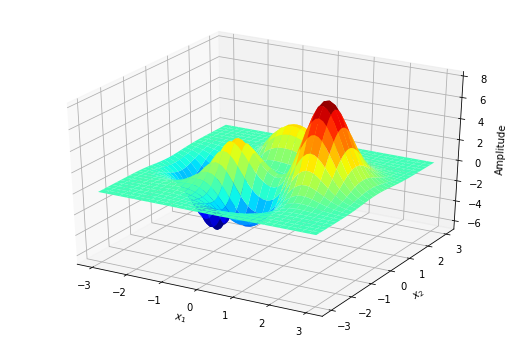
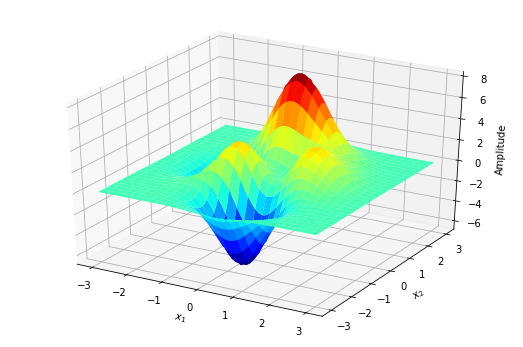
PSO notebook (markdown version)

Changed region(s): [[0.2753, 0.2017, 0.7648, 0.7781]]

diff --git a/examples/particle_swarm/ParticleSwarmOptimization.md b/examples/particle_swarm/ParticleSwarmOptimization.md
@@ -19,6 +19,8 @@ from mpl_toolkits.mplot3d import Axes3D
 from nessi.pso import Swarm
 ```
 
+### 1-The peak function
+
 The Peaks function in Equation 6 is a function of two
 variables,  obtained  by  translating  and  scaling  Gaussian
 distributions.  It  has  multiple  peaks  which  are  located
@@ -29,50 +31,109 @@ function values (Aljarah & Ludwig, 2013). The function has the following definit
 
 
 ```python
-def peaksF(x1min, x1max, dx1, x2min, x2max, dx2):
-    """
-    Return an array containing the 2D Rastrigin function.
-    """
+def peaksF(X, Y):
+    F = 3.*(1.-X)*(1.-X)\
+                *np.exp(-1.*X**2-(Y+1.)**2)\
+                -10.*(X/5.-X**3-Y**5)\
+                *np.exp(-1.*X**2-Y**2)\
+                -1./3.*np.exp(-1.*(X+1)**2-Y**2)
 
-    # >> Determine the number of samples
-    n1 = int((x1max-x1min)/dx1)+1
-    n2 = int((x2max-x2min)/dx2)+1
-
-    # >> Declare array
-    f = np.zeros((n1, n2), dtype=np.float32)
-
-    # >> Fill the array
-    for i2 in range(0, n2):
-        x2 = x2min+float(i2)*dx2
-        for i1 in range(0, n1):
-            x1 = x1min+float(i1)*dx1
-            f[i1, i2] = 3.*(1.-x1)*(1.-x1)\
-                        *np.exp(-1.*x1*x1-(x2+1.)*(x2+1.))\
-                        -10.*(x1/5.-x1*x1*x1-x2*x2*x2*x2*x2)\
-                        *np.exp(-1.*x1*x1-x2*x2)\
-                        -1./3.*np.exp(-1.*(x1+1)*(x1+1)-x2*x2)
-
-    return f
+    return F
 ```
 
 
 ```python
-# The peak function
-F = peaksF(-3.0, 3.0, 0.1, -3.0, 3.0, 0.1)
-
 # Initialize 3D plot
-
 fig = plt.figure(figsize=(9,6))
 ax = fig.gca(projection='3d')
 ax.set_xlabel(r'$x_{1}$')
 ax.set_ylabel(r'$x_{2}$')
 ax.set_zlabel(r'Amplitude')
+
+# Calculate peak function
 X, Y = np.meshgrid(np.linspace(-3, 3, 61), np.linspace(-3, 3, 61))
-surf = ax.plot_surface(X, Y, F, vmin=-6.0, vmax=8.0, cmap='jet')
+F = peaksF(X, Y)
+
+# Plot
+ax.plot_surface(X, Y, F, vmin=-6.0, vmax=8.0, cmap='jet');
 ```
 
 
 ![png](output_8_0.png)
+
+
+### 2-Define the search-space
+
+The search-space is delimited by the minimum and maximum values of each parameter (x1 and x2 in this case). An increment value (dx) is added to control the maximum displacement of the swarm's particles.
+
+| x1 min | x1 max | dx1 | x2 min | x2 max | dx2 |
+| ------ | ------ | --- | ------ | ------ | --- |
+| -3.0   | 3.0    | 0.3 | -3.0   | 3.0    | 0.3 |
+
+### 3-Process
+
+
+```python
+# Initialize the swarm object
+swarm = Swarm()
+
+# PSO parameters
+fmod = 'pspace_peaks.ascii'
+ngen = 100
+nindv = 20
+fit = np.zeros((ngen+1, 2), dtype=np.float32)
+
+# Get the search-space
+swarm.init_pspace(fmod)
+
+# Initialize particles
+swarm.init_particles(nindv)
+```
+
+
+```python
+# First evaluation
+swarm.misfit[:] = peaksF(swarm.current[:, 0, 0], swarm.current[:, 0, 1])
+fit[0, 0] = np.amin(swarm.misfit)
+fit[0, 1] = np.mean(swarm.misfit)
+```
+
+
+```python
+# Loop over generations
+for igen in range(0, ngen):
+    # Update
+    swarm.update(control=1)
+    # Evaluation
+    for indv in range(0, nindv):
+        vfit = peaksF(swarm.current[indv, 0, 0], swarm.current[indv, 0, 1])
+        if vfit < swarm.misfit[indv]:
+            swarm.history[indv, :, :] = swarm.current[indv, :, :]
+            swarm.misfit[indv] = vfit
+    # Store the misfit values
+    fit[igen+1, 0] = np.amin(swarm.misfit)
+    fit[igen+1, 1] = np.mean(swarm.misfit)
+```
+
+
+```python
+fig = plt.figure(figsize=(8, 4))
+ax1 = fig.add_subplot(1, 2, 1)
+ax1.set_xlim(-3.0, 3.0)
+ax1.set_ylim(-3.0, 3.0)
+ax1.set_xlabel(r'$x_{1}$')
+ax1.set_ylabel(r'$x_{2}$')
+ax1.imshow(F, aspect='auto', cmap='jet', extent=[-3.0, 3.0, -3.0, 3.0], origin='upper-left')
+ax1.scatter(swarm.history[:, 0, 0], swarm.history[:, 0, 1], color='black')
+ax2 = fig.add_subplot(1, 2, 2)
+ax2.set_xlabel('Number of generation')
+ax2.set_ylabel('Lower value of peak function found')
+ax2.plot(fit[:, 0], color='red')
+ax2.plot(fit[:, 1], color='gray');
+```
+
+
+![png](output_14_0.png)
 
 
 ## References
